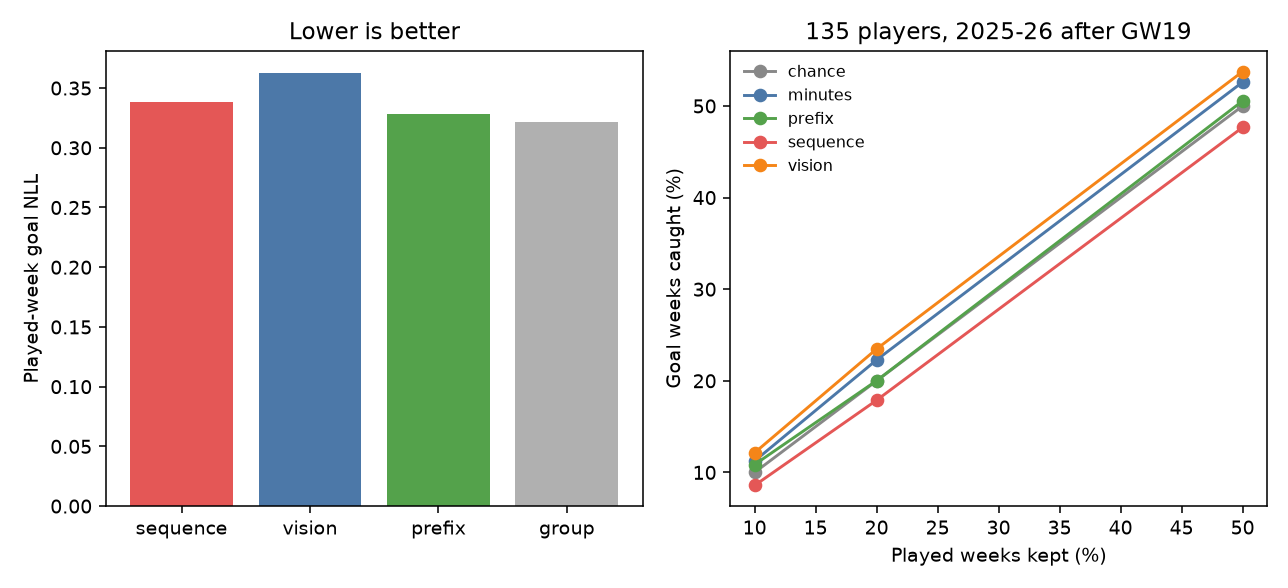
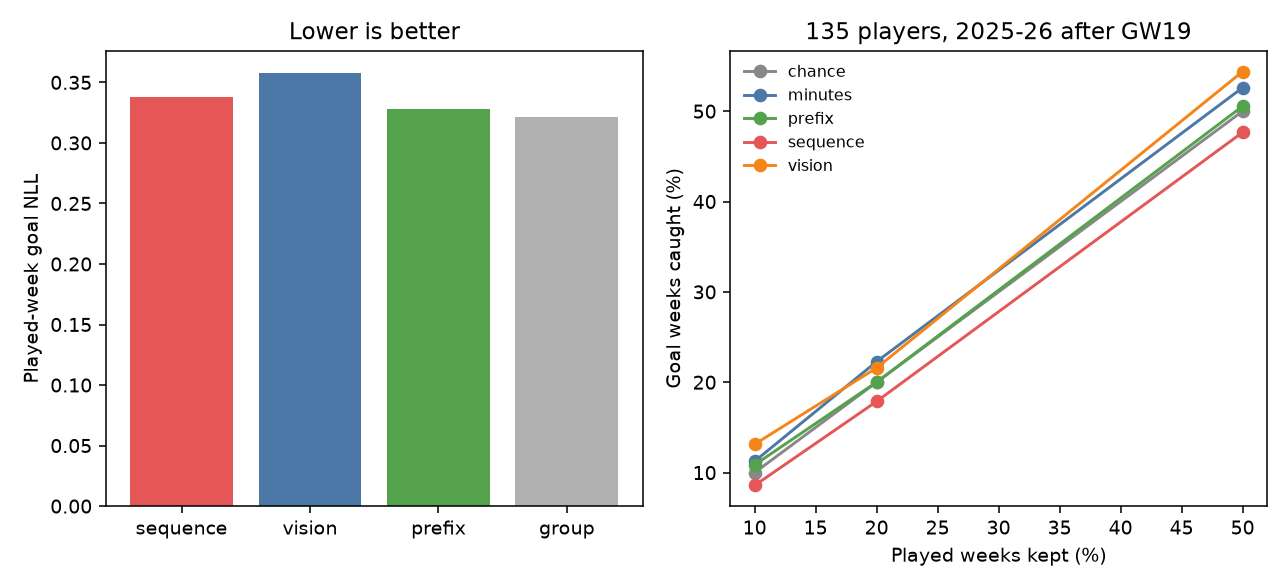
Mark position, the 60-minute line, and a finer conceded bar.
The squad picture now shows a position color, a solid band once minutes reach 60, and eight pixels of opponent goals conceded. Rescored on the same 2025-26 gameweek-19 cut.

diff --git a/src/models/flashcard_squad_trial.py b/src/models/flashcard_squad_trial.py
@@ -39,10 +39,11 @@ ARTIFACTS = __import__("pathlib").Path("/opt/cursor/artifacts")
 
 ROWS = 40
 COLS = 40
-BAND_H = 4
+BAND_H = 8
 CELL_W = 4
-PLAYER_H = BAND_H * 3
-HEADER_H = BAND_H * 3
+PLAYER_BANDS = 5
+PLAYER_H = BAND_H * PLAYER_BANDS
+HEADER_H = PLAYER_H
 IMG_H = HEADER_H + ROWS * PLAYER_H
 IMG_W = COLS * CELL_W
 MASK_ID = 4
@@ -57,6 +58,7 @@ SEED = 0
 POS = {"GKP": 0, "DEF": 1, "MID": 2, "FWD": 3}
 
 MINUTES_C = (0, 114, 178)
+PLAYED_C = (0, 0, 128)
 GOALS_C = (213, 94, 0)
 ASSISTS_C = (204, 121, 167)
 HOME_C = (0, 158, 115)
@@ -67,6 +69,12 @@ MASK_C = (176, 176, 176)
 BASE_C = (226, 226, 226)
 HATCH_BG = (214, 214, 214)
 HATCH_FG = (168, 168, 168)
+POS_C = (
+    (180, 0, 80),
+    (0, 90, 50),
+    (90, 0, 160),
+    (150, 90, 0),
+)
 
 
 @dataclass
@@ -312,7 +320,12 @@ def _bar(img: np.ndarray, y0: int, x0: int, pixels: int, color: tuple[int, int, 
 
 
 def render_grid(view: dict[str, np.ndarray]) -> np.ndarray:
-    """Paint one card. Labels and names are not in the picture."""
+    """Paint one card. Labels and names are not in the picture.
+
+    Each player cell is five bands: minutes, a solid mark at 60 minutes,
+    goals, assists, and a position color. The conceded header uses the full
+    eight-pixel band, so rates that shared a height before are separate.
+    """
     img = np.full((IMG_H, IMG_W, 3), 255, dtype=np.uint8)
     for col in range(COLS):
         x0 = col * CELL_W
@@ -332,15 +345,21 @@ def render_grid(view: dict[str, np.ndarray]) -> np.ndarray:
             _bar(img, BAND_H * 2, x0, pixels, REG_C)
         for row in range(ROWS):
             y = HEADER_H + row * PLAYER_H
-            if view["present"][row, col] < 0.5:
+            if view["position"][row] < 0:
                 _hatch(img, y, x0, PLAYER_H)
+                continue
+            pos_y = y + 4 * BAND_H
+            img[pos_y : pos_y + BAND_H, x0 : x0 + CELL_W] = POS_C[int(view["position"][row])]
+            if view["present"][row, col] < 0.5:
+                _hatch(img, y, x0, BAND_H * 4)
                 continue
             minutes = float(view["minutes"][row, col])
             minute_px = 0 if minutes <= 0 else min(BAND_H, max(1, int(round(minutes / 90 * BAND_H))))
             _bar(img, y, x0, minute_px, MINUTES_C)
+            _bar(img, y + BAND_H, x0, BAND_H if minutes >= 60 else 0, PLAYED_C)
             for offset, token, color in (
-                (BAND_H, int(view["goal_token"][row, col]), GOALS_C),
-                (BAND_H * 2, int(view["assist_token"][row, col]), ASSISTS_C),
+                (BAND_H * 2, int(view["goal_token"][row, col]), GOALS_C),
+                (BAND_H * 3, int(view["assist_token"][row, col]), ASSISTS_C),
             ):
                 if token == MASK_ID:
                     img[y + offset : y + offset + BAND_H, x0 : x0 + CELL_W] = MASK_C
@@ -682,7 +701,8 @@ def write_report(payload: dict[str, object], path) -> None:
         "## Readers",
         "",
         "Sequence: minutes, the 60-minute flag, position, and the visible bars as tokens.",
-        "Vision: the same grid painted in pixels. A shared cell encoder reads each patch.",
+        "Vision: the same grid painted in pixels, with a position color, a 60-minute mark,",
+        "and an eight-pixel opponent conceded bar. A shared cell encoder reads each patch.",
         "Both then attend across the 40 rows and across all 40 columns.",
         "The personal baseline is the player's visible bars pulled toward the position-and-minutes rate",
         f"with strength {PRIOR_STRENGTH}. The group baseline is that rate alone.",

diff --git a/tests/test_flashcard_squad_trial.py b/tests/test_flashcard_squad_trial.py
@@ -8,15 +8,22 @@ import numpy as np
 import torch
 
 from src.models.flashcard_squad_trial import (
+    BAND_H,
+    CELL_W,
     COLS,
     GOALS_C,
+    HEADER_H,
     IMG_H,
     IMG_W,
     MASK_C,
     MASK_ID,
+    PLAYED_C,
+    PLAYER_H,
+    POS_C,
     ROWS,
     SquadCard,
     SquadSequence,
+    SquadVision,
     apply_cut,
     render_grid,
     train_model,
@@ -88,9 +95,10 @@ class SquadCutTests(unittest.TestCase):
         self.assertTrue(np.all(view["goal_label"][0, 19:30] == 3))
         image = render_grid(view)
         self.assertEqual(image.shape, (IMG_H, IMG_W, 3))
-        hidden_band = image[HEADER_GOALS, 19 * 4 : 20 * 4]
+        goal_y = HEADER_H + 2 * BAND_H
+        hidden_band = image[goal_y, 19 * CELL_W : 20 * CELL_W]
         self.assertTrue(np.all(hidden_band == MASK_C))
-        visible_band = image[HEADER_GOALS : HEADER_GOALS + 4, 0:4]
+        visible_band = image[goal_y : goal_y + BAND_H, 0:CELL_W]
         self.assertTrue(np.any(np.all(visible_band == GOALS_C, axis=-1)))
 
     def test_changing_a_hidden_goal_does_not_change_the_input(self) -> None:
@@ -135,8 +143,40 @@ class SquadCutTests(unittest.TestCase):
         self.assertGreater(float(np.mean(out_probs)), 0.7)
         self.assertLess(float(np.mean(in_probs)), 0.3)
 
-
-HEADER_GOALS = 12 + 4
+    def test_picture_marks_position_the_hour_and_finer_concede(self) -> None:
+        card = _card()
+        card.minutes = card.minutes.copy()
+        card.present = card.present.copy()
+        card.position = card.position.copy()
+        card.minutes[0, 0] = 59
+        card.minutes[0, 1] = 60
+        card.position[1] = 3
+        card.minutes[1, 0] = 90
+        card.present[1, 0] = True
+        view = apply_cut(card, _league(), 19)
+        view["concede"] = view["concede"].copy()
+        view["concede_missing"] = view["concede_missing"].copy()
+        view["concede"][0] = 0.74
+        view["concede"][1] = 1.12
+        view["concede_missing"][0] = 0.0
+        view["concede_missing"][1] = 0.0
+        image = render_grid(view)
+        minutes_band = image[HEADER_H : HEADER_H + BAND_H]
+        self.assertTrue(np.array_equal(minutes_band[:, 0:CELL_W], minutes_band[:, CELL_W : 2 * CELL_W]))
+        played_y = HEADER_H + BAND_H
+        played = image[played_y : played_y + BAND_H]
+        self.assertFalse(np.any(np.all(played[:, 0:CELL_W] == PLAYED_C, axis=-1)))
+        self.assertTrue(np.all(played[:, CELL_W : 2 * CELL_W] == PLAYED_C))
+        pos_y = HEADER_H + 4 * BAND_H
+        self.assertTrue(np.array_equal(image[pos_y, 0], np.array(POS_C[2])))
+        self.assertTrue(np.array_equal(image[pos_y + PLAYER_H, 0], np.array(POS_C[3])))
+        concede = image[BAND_H : BAND_H * 2]
+        self.assertFalse(np.array_equal(concede[:, 0:CELL_W], concede[:, CELL_W : 2 * CELL_W]))
+        torch.manual_seed(0)
+        batch = _one(view)
+        goals, assists = SquadVision(dropout=0.0)(batch["image"], batch["row_pad"], batch["column_on"])
+        self.assertEqual(tuple(goals.shape), (1, ROWS, COLS, 4))
+        self.assertEqual(tuple(assists.shape), (1, ROWS, COLS, 4))
 
 
 def _coupled_card(rng: np.random.Generator) -> SquadCard:

diff --git a/reports/flashcard_squad_trial.md b/reports/flashcard_squad_trial.md
@@ -8,12 +8,13 @@ Cards: train 60, test 20. One card is a club-season.
 Grid: 40 players by 40 fixtures. Cut after gameweek 19 for every club.
 Minutes, venue, opponent goals conceded, and regulars-on-the-pitch stay visible.
 Goals and assists after the cut are hidden. The segment is predicted in one pass.
-Wall clock: 52 seconds on CPU.
+Wall clock: 71 seconds on CPU.
 
 ## Readers
 
 Sequence: minutes, the 60-minute flag, position, and the visible bars as tokens.
-Vision: the same grid painted in pixels. A shared cell encoder reads each patch.
+Vision: the same grid painted in pixels, with a position color, a 60-minute mark,
+and an eight-pixel opponent conceded bar. A shared cell encoder reads each patch.
 Both then attend across the 40 rows and across all 40 columns.
 The personal baseline is the player's visible bars pulled toward the position-and-minutes rate
 with strength 8. The group baseline is that rate alone.
@@ -25,7 +26,7 @@ A played week has at least 60 minutes. Lower negative log-likelihood is better.
 | reader | goal nll | assist nll | goal P | goal rate | expected goals | actual goals |
 |---|---:|---:|---:|---:|---:|---:|
 | sequence | 0.338 | 0.352 | 0.072 | 0.099 | 17.50 | 21.35 |
-| vision | 0.363 | 0.346 | 0.106 | 0.099 | 23.55 | 21.35 |
+| vision | 0.358 | 0.343 | 0.124 | 0.099 | 28.08 | 21.35 |
 | prefix | 0.328 | 0.330 | 0.104 | 0.099 | 23.04 | 21.35 |
 | group | 0.321 | 0.328 | 0.107 | 0.099 | 23.69 | 21.35 |
 
@@ -36,7 +37,7 @@ Players with a goal and at least eight played weeks after the cut: 135.
 | rank by | top 10% | top 20% | top 50% |
 |---|---:|---:|---:|
 | sequence | 0.086 | 0.179 | 0.477 |
-| vision | 0.122 | 0.235 | 0.538 |
+| vision | 0.131 | 0.216 | 0.544 |
 | prefix | 0.109 | 0.200 | 0.506 |
 | group | 0.105 | 0.204 | 0.498 |
 | minutes | 0.113 | 0.223 | 0.526 |

diff --git a/reports/goal_hit_log.md b/reports/goal_hit_log.md
@@ -20,10 +20,13 @@ The flash-card GRU was trained on the player card and scored on log-loss and sea
 | 6 Nov 2026, 21:38 | minutes | player card | 11.4% | 21.7% | 52.6% |
 | 7 Nov 2026, 18:32 | squad sequence | squad card | 8.6% | 17.9% | 47.7% |
 | 7 Nov 2026, 18:32 | squad vision | squad card | 12.2% | 23.5% | 53.8% |
+| 7 Nov 2026, 19:55 | squad vision, marked chart | squad card | 13.1% | 21.6% | 54.4% |
 | 7 Nov 2026, 18:32 | prefix rate, strength 8 | squad card | 10.9% | 20.0% | 50.6% |
 | 7 Nov 2026, 18:32 | group rate | squad card | 10.5% | 20.4% | 49.8% |
 | 7 Nov 2026, 18:32 | minutes | squad card | 11.3% | 22.3% | 52.6% |
 
-Best on the player card: minutes, 11.4%. Best on the squad card: squad vision, 12.2%.
+Best on the player card: minutes, 11.4%. Best on the squad card: squad vision with the marked chart, 13.1%.
+
+The marked chart adds a position color, a solid band at 60 minutes, and an eight-pixel opponent conceded bar. The top 10% rose from 12.2% to 13.1%. The top 20% fell from 23.5% to 21.6%. Expected goals on played weeks were 28.1 against 21.4 actual.
 
 Add the next model as one row. Keep the exam name when the card, the cut, and the player rule stay the same. Give a changed setup a new exam name.
